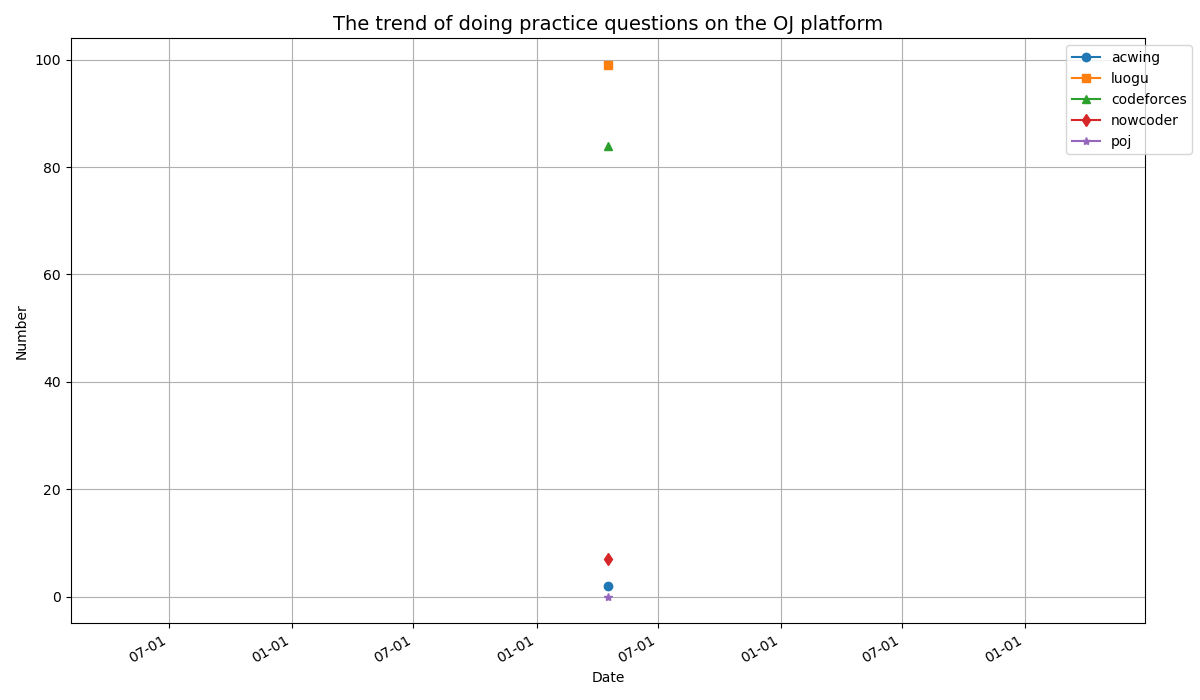
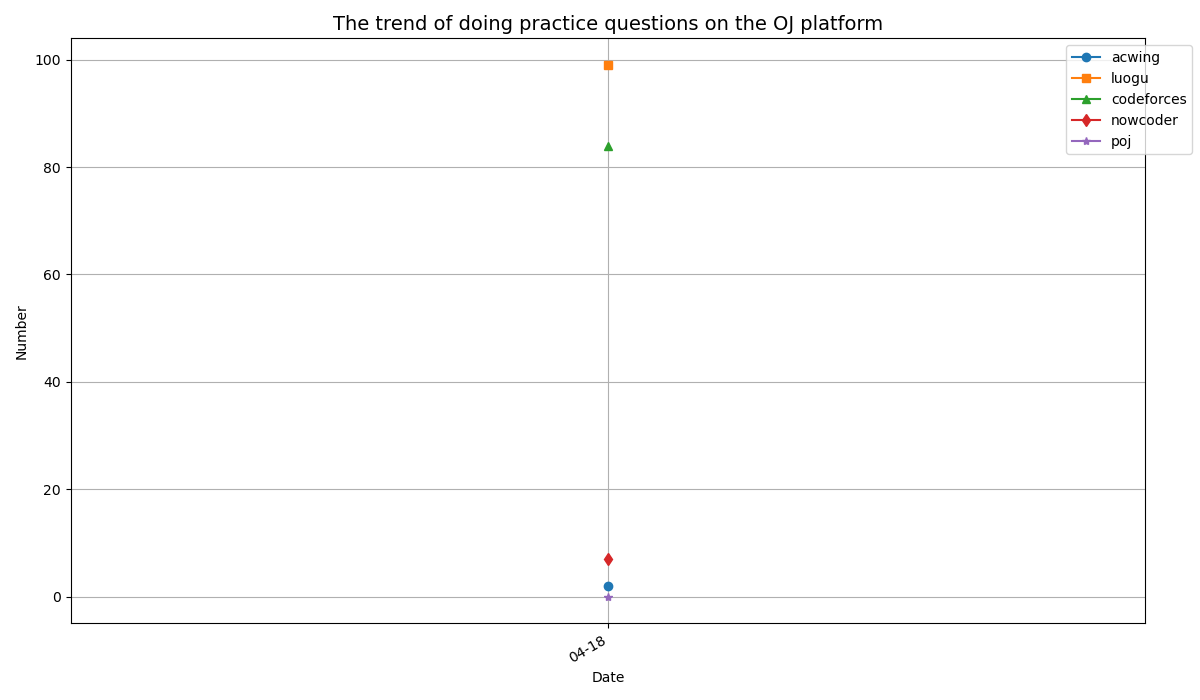
update

diff --git a/Tool/Statistics/update.py b/Tool/Statistics/update.py
@@ -85,7 +85,12 @@ def plot_activity(csv_path=None):
 
     # 坐标轴优化
     ax = plt.gca()
+    
+    # 设置日期格式化（月-日）
     ax.xaxis.set_major_formatter(mdates.DateFormatter('%m-%d'))
+    # 强制x轴刻度与数据点对齐
+    ax.set_xticks(dates)
+    
     ax.grid(True) 
     plt.gcf().autofmt_xdate()
     
@@ -96,7 +101,7 @@ def plot_activity(csv_path=None):
     plt.legend(bbox_to_anchor=(1.05, 1))
     plt.tight_layout()
     plt.savefig(os.path.join(img_dir, 'activity.png'))
-
+    
 # ----------------- 主流程 -----------------
 if __name__ == "__main__":
     # 动态路径处理
